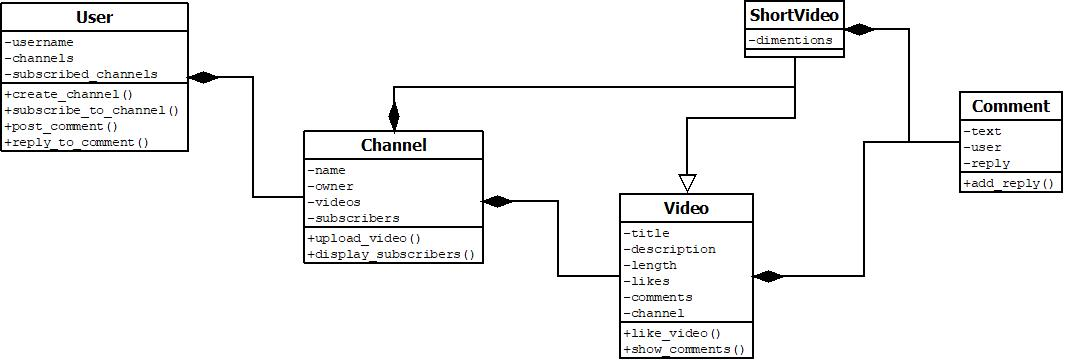
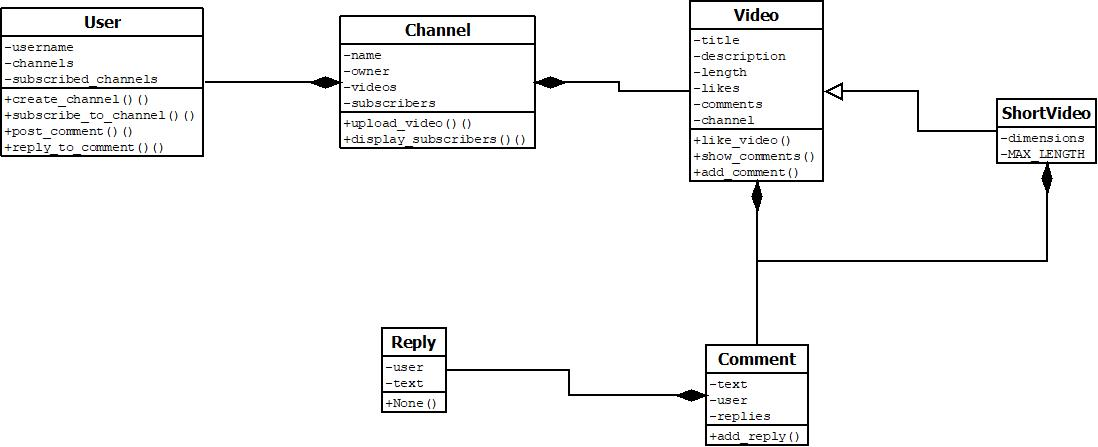
Changes Updated

diff --git a/main.py b/main.py
@@ -2,8 +2,7 @@ from channel import Channel
 from user import User
 from video import Video
 from shortvideo import ShortVideo
-from comment import Comment
-
+from comment import Comment, Reply
 
 if __name__ == "__main__":
     
@@ -19,10 +18,13 @@ if __name__ == "__main__":
 
     video1.like_video()
     comment1 = user2.post_comment(video1, "What an Informative Video!")
-
-    reply1 = user1.reply_to_comment(comment1, "Thank you so much!")
+    video1.add_comment(comment1)
+    
+    reply1 = Reply(user1, "Thank you so much!")
+    comment1.add_reply(reply1)
 
     video1.show_comments()
 
     channel1.display_subscribers()
+
 

diff --git a/shortvideo.py b/shortvideo.py
@@ -1,9 +1,11 @@
 from video import Video
 
 class ShortVideo(Video):
+    MAX_LENGTH = 60
+
     def __init__(self, title, description, length, channel):
         super().__init__(title, description, length, channel)
         self.comments = []
-        if length > 60:
-            raise ValueError("Short video cannot exceed 60 seconds.")
+        if length > ShortVideo.MAX_LENGTH:
+            raise ValueError(f"Short video cannot exceed {ShortVideo.MAX_LENGTH} seconds.")
         self.dimensions = "portrait"

diff --git a/comment.py b/comment.py
@@ -1,3 +1,8 @@
+class Reply:
+    def __init__(self, user, text):
+        self.user = user
+        self.text = text
+
 class Comment:
     def __init__(self, user, text):
         self.user = user
@@ -8,4 +13,4 @@ class Comment:
         if self.reply is None:
             self.reply = reply
         else:
-            print("Cannot add another reply.")    
+            print("Cannot add another reply.")

diff --git a/video.py b/video.py
@@ -15,3 +15,7 @@ class Video:
             print(f"{comment.user.username}: {comment.text}")
             if comment.reply:
                 print(f"  Reply -> {comment.reply.user.username}: {comment.reply.text}")
+
+    def add_comment(self, comment):
+        self.comments.append(comment)
+        print(f"Comment added: {comment.user.username}: {comment.text}")            
